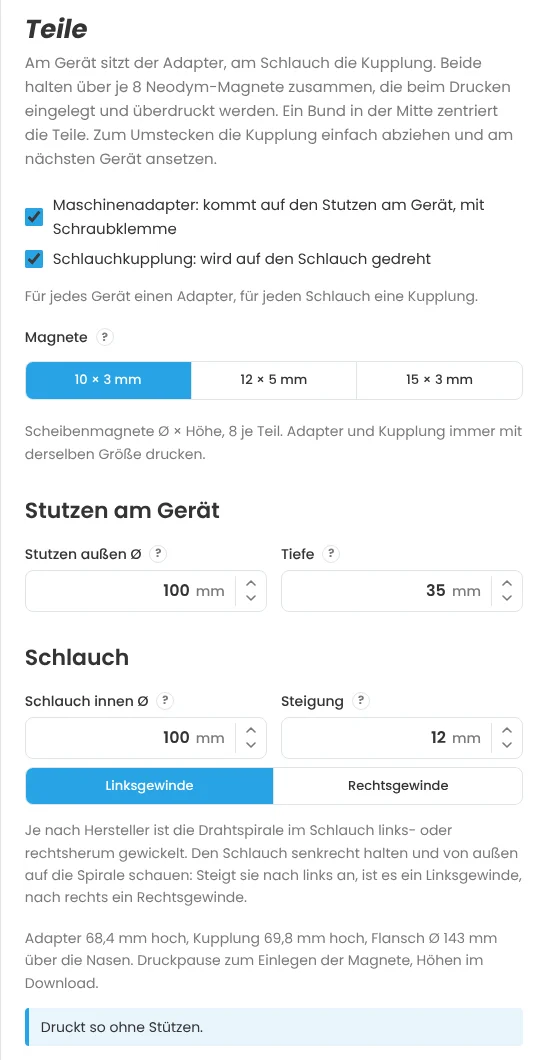
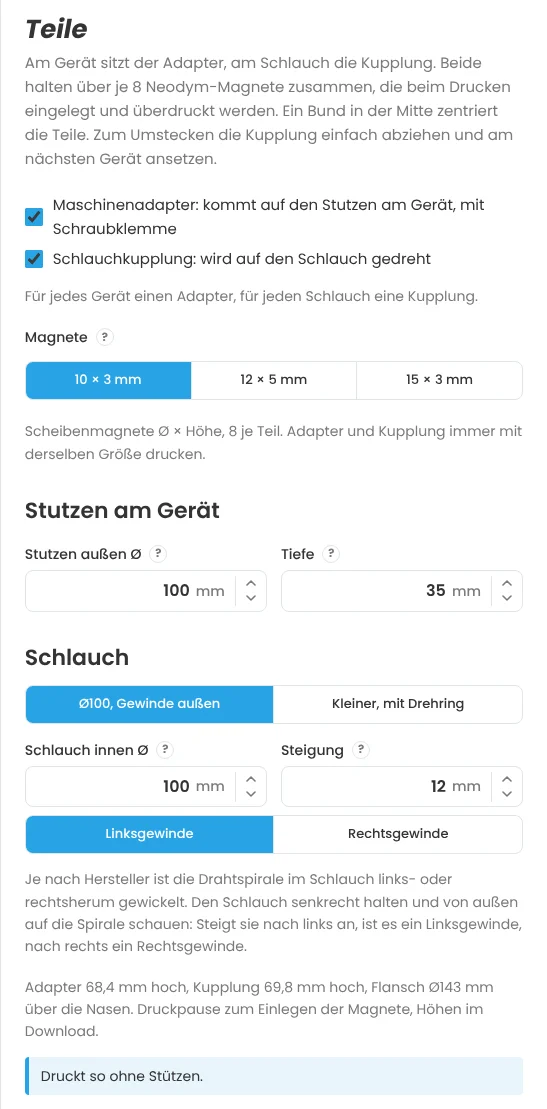
Anleitung: alle Bilder neu, Bilder zu Schlauch- und Anschlussplatte; Texte nachgezogen
- npm run docs:bilder: alle Bilder auf aktuellem Stand (Gewindetabelle, Kartennamen,
  Reihenfolge der Gruppen, Drehring-Standard), neu magnet-schlauch(-vorschau) und
  magnet-anschluss(-vorschau).
- README: Drehring-Standard 0,3 mm und druckoptimiert; Magnet-Schnellkupplung auch an
  osVAC neo über die Platte.
- Gerät ↔ Kupplung/Stecker: Einleitung und Teil-Auswahl ohne „von osVAC neo“.
- Kommentare: druckoptimierter Drehring nicht mehr „in Entwicklung“.

Claude-Session: https://claude.ai/code/session_012KSPQVGyo4GsJqVexU7eq3

diff --git a/public/anleitung.html b/public/anleitung.html
@@ -91,14 +91,14 @@ figure a.zoom{cursor:zoom-in;display:inline-block;max-width:100%}
 <p class="up"><a href="#oben">nach oben</a></p></section>
 <section><h2 id="verbindung">Schritt 1: Verbindung wählen</h2>
 <p>Im ersten Schritt wählst du, was für einen Adapter du brauchst. Die Arten sind nach ihrem Zweck sortiert.</p>
-<figure class="small"><a href="anleitung/verbindung.webp" class="zoom"><img src="anleitung/verbindung.webp" width="547" height="1530" alt="Schritt „Verbindung“ mit allen Adapterarten" loading="lazy"></a><figcaption>Schritt „Verbindung“ mit allen Adapterarten</figcaption></figure>
+<figure class="small"><a href="anleitung/verbindung.webp" class="zoom"><img src="anleitung/verbindung.webp" width="547" height="1641" alt="Schritt „Verbindung“ mit allen Adapterarten" loading="lazy"></a><figcaption>Schritt „Verbindung“ mit allen Adapterarten</figcaption></figure>
 <ul>
 <li><strong>osVAC neo untereinander:</strong> <a href="#stecker-kupplung">Stecker ↔ Kupplung</a> verbindet zwei Größen. <em>Kupplung einzeln</em> und <em>Stecker einzeln</em> sind nur der Verschluss, z. B. zum Einbau in eigene Konstruktionen.</li>
 <li><strong>An den Schlauch:</strong> <a href="#schlauch">Kupplung ↔ Schlauch und Stecker ↔ Schlauch</a> – zum Aufdrehen auf den Saugschlauch.</li>
 <li><strong>An ein Gerät:</strong> <a href="#stutzen">Kupplung → Stutzen und Stecker → Stutzen</a> – für ein Gerät mit rundem Stutzen, den du selbst ausmisst.</li>
 <li><strong>Eigener Aufbau:</strong> <a href="#freiform">Freiform</a> – ein Adapter aus Bausteinen, z. B. für eckige Auslässe, Bögen, Abzweige oder Geräte mit ungewöhnlicher Form.</li>
 <li><strong>Zubehör:</strong> <a href="#duese">Saugdüse</a>, <a href="#nebenluft">Nebenluft-Regler</a>, <a href="#schieber">Schieber einzeln</a> und <a href="#loesehilfe">Drehring-Lösehilfe</a>.</li>
-<li><strong>Magnet-Schnellkupplung Ø100:</strong> <a href="#magnet">Adapter und Kupplung für 100-mm-Schläuche</a>, die mit eingedruckten Magneten zusammenhalten, auch mit <a href="#magnet-schlauch">kleineren Schläuchen</a> oder <a href="#magnet-osvac">Anschlüssen von osVAC neo</a>. Ein eigenes System für Geräte mit 100-mm-Stutzen.</li>
+<li><strong>Magnet-Schnellkupplung Ø100:</strong> <a href="#magnet">Adapter und Kupplung für 100-mm-Schläuche</a>, die mit eingedruckten Magneten zusammenhalten, auch mit <a href="#magnet-schlauch">kleineren Schläuchen</a> oder <a href="#magnet-osvac">Kupplung/Stecker</a>. Ein eigenes System für Geräte mit 100-mm-Stutzen.</li>
 </ul>
 <p>Rechts neben jeder Art steht das Kürzel, unter dem die Datei später heißt (z. B. <em>MxxFyy</em>; xx und yy sind die Durchmesser).</p>
 <p class="up"><a href="#oben">nach oben</a></p></section>
@@ -118,7 +118,7 @@ figure a.zoom{cursor:zoom-in;display:inline-block;max-width:100%}
 <p><em>Kupplung ↔ Schlauch</em> (FxxHyy) und <em>Stecker ↔ Schlauch</em> (MxxHyy) werden auf den Saugschlauch gedreht. Der Schlauchteil sitzt in einem <strong>Drehring</strong>: Er dreht sich frei, damit sich der Schlauch beim Arbeiten nicht verdrillt.</p>
 <figure><a href="anleitung/schlauch-vorschau.webp" class="zoom"><img src="anleitung/schlauch-vorschau.webp" width="1440" height="900" alt="Kupplung ↔ Schlauch in der Vorschau" loading="lazy"></a><figcaption>Kupplung ↔ Schlauch in der Vorschau</figcaption></figure>
 <h3 id="groessen-2">Größen</h3>
-<figure class="small"><a href="anleitung/groessen-schlauch.webp" class="zoom"><img src="anleitung/groessen-schlauch.webp" width="547" height="304" alt="Größen beim Schlauchadapter" loading="lazy"></a><figcaption>Größen beim Schlauchadapter</figcaption></figure>
+<figure class="small"><a href="anleitung/groessen-schlauch.webp" class="zoom"><img src="anleitung/groessen-schlauch.webp" width="547" height="631" alt="Größen beim Schlauchadapter" loading="lazy"></a><figcaption>Größen beim Schlauchadapter</figcaption></figure>
 <ul>
 <li><strong>Kupplung (F)</strong> bzw. <strong>Stecker (M):</strong> die Seite für osVAC neo.</li>
 <li><strong>Schlauch (H):</strong> der Innendurchmesser des Schlauchs. Miss ihn innen oder schau in die Angaben deines Saugers. Viele Schläuche haben 32 oder 36 mm.</li>
@@ -126,7 +126,7 @@ figure a.zoom{cursor:zoom-in;display:inline-block;max-width:100%}
 <li><strong>Gewinde:</strong> Unter dem Schlauchfeld stehen die Durchmesser des Gewindes. Das Gewinde ist leicht konisch, am Eingang weiter als hinten. Der Schlauch passt, wenn sein <strong>Außendurchmesser</strong> höchstens so groß ist wie der <em>Gewindegrund am Eingang</em>. Schläuche mit gleichem Innendurchmesser sind außen oft verschieden dick: Ist deiner zu dick, stell einen etwas größeren Wert bei <em>Schlauch (H)</em> ein.</li>
 </ul>
 <h3 id="passung-2">Passung</h3>
-<figure class="small"><a href="anleitung/passung-schlauch.webp" class="zoom"><img src="anleitung/passung-schlauch.webp" width="547" height="653" alt="Passung beim Schlauchadapter" loading="lazy"></a><figcaption>Passung beim Schlauchadapter</figcaption></figure>
+<figure class="small"><a href="anleitung/passung-schlauch.webp" class="zoom"><img src="anleitung/passung-schlauch.webp" width="547" height="631" alt="Passung beim Schlauchadapter" loading="lazy"></a><figcaption>Passung beim Schlauchadapter</figcaption></figure>
 <ul>
 <li><strong>Spiel zwischen Stecker und Kupplung:</strong> wie bei <a href="#stecker-kupplung">Stecker ↔ Kupplung</a>.</li>
 <li><strong>Drehring:</strong> Standard ist <em>Druckoptimiert</em>, eine eigene Form: Alle Flächen, die beim Druck nach unten zeigen, sind mindestens 45° steil, und nichts hängt flach über einem Spalt. Frei in der Luft beginnt nur die schmale Spitze eines Rings, 0,65 mm über dem anderen. So dreht sich der Ring direkt nach dem Druck, auch mit PETG. Der Ring an der Kupplung bzw. am Gehäuse sitzt dabei innen, der Ring am Schlauchteil liegt außen als Hülse darüber. Der Schlauchadapter mit Kupplung wird 0,5 mm länger. Mit Ersatzteilen des Originals passt er nicht zusammen. <em>Wie Original</em> hat die Form von osVAC neo; nimm sie, wenn du Teile mit dem Original tauschen willst.</li>
@@ -169,7 +169,7 @@ figure a.zoom{cursor:zoom-in;display:inline-block;max-width:100%}
 </ul>
 <p>Adapter, Magnete und Stutzen sind bei beiden Karten gleich; jede Kupplung und jede Platte passt an jeden Adapter mit derselben Magnetgröße.</p>
 <figure><a href="anleitung/magnet-vorschau.webp" class="zoom"><img src="anleitung/magnet-vorschau.webp" width="1440" height="900" alt="Magnet-Schnellkupplung in der Vorschau" loading="lazy"></a><figcaption>Magnet-Schnellkupplung in der Vorschau</figcaption></figure>
-<figure class="small"><a href="anleitung/magnet.webp" class="zoom"><img src="anleitung/magnet.webp" width="547" height="1060" alt="Einstellungen der Magnet-Schnellkupplung" loading="lazy"></a><figcaption>Einstellungen der Magnet-Schnellkupplung</figcaption></figure>
+<figure class="small"><a href="anleitung/magnet.webp" class="zoom"><img src="anleitung/magnet.webp" width="547" height="1109" alt="Einstellungen der Magnet-Schnellkupplung" loading="lazy"></a><figcaption>Einstellungen der Magnet-Schnellkupplung</figcaption></figure>
 <ul>
 <li><strong>Teile:</strong> Maschinenadapter, Schlauchkupplung oder beides. Für jedes Gerät brauchst du einen Adapter, für jeden Schlauch eine Kupplung. Beide zusammen brauchen ein Druckbett von etwa 240 mm; ist deins kleiner, druckst du sie nacheinander.</li>
 <li><strong>Magnete:</strong> Scheibenmagnete 10 × 3, 12 × 5 oder 15 × 3 mm (Ø × Höhe). Größere halten fester. Adapter und Kupplung immer mit derselben Größe drucken.</li>
@@ -179,6 +179,8 @@ figure a.zoom{cursor:zoom-in;display:inline-block;max-width:100%}
 <p>In <em>Passung</em> stellst du das Spiel am Stutzen und am Zentrierbund ein.</p>
 <h3 id="magnet-schlauch">Kleinere Schläuche mit Drehring</h3>
 <p>Bei <em>Gerät ↔ Schlauch</em> unter <em>Schlauch</em> auf <strong>Kleiner, mit Drehring</strong> stellen. Statt der Kupplung Ø100 entsteht eine <strong>Schlauchplatte</strong>: eine flache Platte mit den Magneten, darauf ein oder zwei Becher mit dem Schlauchgewinde von osVAC neo. Jeder Becher dreht sich auf einem Drehring, so verdreht sich der Schlauch beim Arbeiten nicht.</p>
+<figure><a href="anleitung/magnet-schlauch-vorschau.webp" class="zoom"><img src="anleitung/magnet-schlauch-vorschau.webp" width="1440" height="900" alt="Schlauchplatte mit zwei Schläuchen in der Vorschau" loading="lazy"></a><figcaption>Schlauchplatte mit zwei Schläuchen in der Vorschau</figcaption></figure>
+<figure class="small"><a href="anleitung/magnet-schlauch.webp" class="zoom"><img src="anleitung/magnet-schlauch.webp" width="547" height="909" alt="Einstellungen für zwei Schläuche" loading="lazy"></a><figcaption>Einstellungen für zwei Schläuche</figcaption></figure>
 <ul>
 <li><strong>Ein Schlauch</strong> oder <strong>zwei Schläuche</strong>, je mit eigenem Innendurchmesser (15 bis 60 mm). Jeder Schlauch hat seine eigene <a href="#schlauch">Gewindetabelle</a> wie bei den Schlauchadaptern.</li>
 <li><strong>Links- oder Rechtsgewinde</strong> wählst du für jeden Schlauch einzeln. Auf jedem Becher steht vorne „osVAC neo“ und sein Durchmesser, hinten die Lizenz.</li>
@@ -188,6 +190,8 @@ figure a.zoom{cursor:zoom-in;display:inline-block;max-width:100%}
 <p>Platte, Drehring und Becher druckst du in einem Stück, mit der Kontaktfläche auf dem Druckbett. Nach dem Druck den Becher festhalten und die Platte einmal kräftig dagegen drehen, bis er frei läuft.</p>
 <h3 id="magnet-osvac">Gerät ↔ Kupplung/Stecker</h3>
 <p>Eine flache <strong>Anschlussplatte</strong> mit einem oder zwei Anschlüssen von osVAC neo. Je Anschluss wählst du <strong>Kupplung (F)</strong> oder <strong>Stecker (M)</strong> und den Durchmesser; beide Anschlüsse dürfen verschieden sein. Die Anschlüsse sitzen fest auf der Platte, ohne Drehring: Die Schläuche drehen sich in ihren eigenen Schlauchadaptern von osVAC neo.</p>
+<figure><a href="anleitung/magnet-anschluss-vorschau.webp" class="zoom"><img src="anleitung/magnet-anschluss-vorschau.webp" width="1440" height="900" alt="Anschlussplatte mit Kupplung, Stecker und Verschlusskappe in der Vorschau" loading="lazy"></a><figcaption>Anschlussplatte mit Kupplung, Stecker und Verschlusskappe in der Vorschau</figcaption></figure>
+<figure class="small"><a href="anleitung/magnet-anschluss.webp" class="zoom"><img src="anleitung/magnet-anschluss.webp" width="547" height="476" alt="Einstellungen für zwei Anschlüsse" loading="lazy"></a><figcaption>Einstellungen für zwei Anschlüsse</figcaption></figure>
 <ul>
 <li>Zwei Anschlüsse brauchen Luft zwischen den aufgesteckten Teilen, damit du sie greifen und drehen kannst: 15 mm, bei zwei Steckern 12 mm zwischen den aufgesteckten Kupplungen. Möglich sind z. B. 32 + 32, F32 + F36, 25 + 40 oder 2 × M36; zu große Kombinationen sperrt die App.</li>
 <li><strong>Verschlusskappe dazu:</strong> Für eine Kupplung gibt es einen Stopfen (ein geschlossener Stecker), für einen Stecker eine Kappe (eine geschlossene Kupplung). Sie liegt als eigenes Teil daneben und verschließt einen Anschluss, an dem gerade kein Schlauch hängt – sonst zieht er Falschluft.</li>
@@ -236,7 +240,7 @@ figure a.zoom{cursor:zoom-in;display:inline-block;max-width:100%}
 <section><h2 id="nebenluft">Nebenluft-Regler</h2>
 <p>Der Nebenluft-Regler kommt direkt auf den Schlauch. Oben steckst du die Düse oder das Werkzeug an. Mit dem oberen Drehring regelst du, wie viel Luft seitlich mit angesaugt wird: Das nimmt Sog von der Düse, z. B. für Vorhänge, Polster oder lose Teile.</p>
 <figure><a href="anleitung/nebenluft-vorschau.webp" class="zoom"><img src="anleitung/nebenluft-vorschau.webp" width="1440" height="900" alt="Nebenluft-Regler in der Vorschau" loading="lazy"></a><figcaption>Nebenluft-Regler in der Vorschau</figcaption></figure>
-<figure class="small"><a href="anleitung/nebenluft.webp" class="zoom"><img src="anleitung/nebenluft.webp" width="547" height="751" alt="Einstellungen des Nebenluft-Reglers" loading="lazy"></a><figcaption>Einstellungen des Nebenluft-Reglers</figcaption></figure>
+<figure class="small"><a href="anleitung/nebenluft.webp" class="zoom"><img src="anleitung/nebenluft.webp" width="547" height="1078" alt="Einstellungen des Nebenluft-Reglers" loading="lazy"></a><figcaption>Einstellungen des Nebenluft-Reglers</figcaption></figure>
 <ul>
 <li><strong>Oben:</strong> Kupplung (F, Standard) oder Stecker (M) und die Größe.</li>
 <li><strong>Unten: Schlauch (H):</strong> wie beim <a href="#schlauch">Schlauchadapter</a>. Der Schlauch wird eingedreht und kann sich mit dem unteren Drehring drehen.</li>

diff --git a/src/components/steps/StepMagnet.svelte b/src/components/steps/StepMagnet.svelte
@@ -22,7 +22,7 @@
 <h2>Teile</h2>
 <p class="lead">
   {#if osvac}
-    Am Gerät sitzt der Adapter, darauf eine Platte mit einem oder zwei Anschlüssen von osVAC neo. Beide halten über je {MAG.n} Neodym-Magnete zusammen, die beim Drucken eingelegt und überdruckt werden. Ein Bund in der Mitte zentriert die Teile.
+    Am Gerät sitzt der Adapter, darauf eine Platte mit einem oder zwei Anschlüssen (Kupplung oder Stecker). Beide halten über je {MAG.n} Neodym-Magnete zusammen, die beim Drucken eingelegt und überdruckt werden. Ein Bund in der Mitte zentriert die Teile.
   {:else}
     Am Gerät sitzt der Adapter, am Schlauch die Kupplung. Beide halten über je {MAG.n} Neodym-Magnete zusammen, die beim Drucken eingelegt und überdruckt werden. Ein Bund in der Mitte zentriert die Teile. Zum Umstecken die Kupplung einfach abziehen und am nächsten Gerät ansetzen.
   {/if}
@@ -31,7 +31,7 @@
 <div class="checks helper-parts">
   <label><input type="checkbox" checked={g.adapter} disabled={g.adapter && !g.coupling} onchange={() => app.toggleMagnetPart('adapter')} /> Maschinenadapter: kommt auf den Stutzen am Gerät, mit Schraubklemme</label>
   <label><input type="checkbox" checked={g.coupling} disabled={g.coupling && !g.adapter} onchange={() => app.toggleMagnetPart('coupling')} />
-    {#if osvac}Anschlussplatte: mit Kupplung oder Stecker von osVAC neo{:else if g.hoseMode === 'small'}Schlauchplatte: ein oder zwei Schläuche mit Drehring{:else}Schlauchkupplung: wird auf den Schlauch gedreht{/if}</label>
+    {#if osvac}Anschlussplatte: mit Kupplung oder Stecker{:else if g.hoseMode === 'small'}Schlauchplatte: ein oder zwei Schläuche mit Drehring{:else}Schlauchkupplung: wird auf den Schlauch gedreht{/if}</label>
 </div>
 <p class="hint">{osvac ? 'Für jedes Gerät einen Adapter; die Anschlussplatte passt auf jeden Adapter mit derselben Magnetgröße.' : 'Für jedes Gerät einen Adapter, für jeden Schlauch eine Kupplung.'}</p>
 

diff --git a/scripts/anleitung-bilder.ts b/scripts/anleitung-bilder.ts
@@ -258,6 +258,34 @@ const scenes: Scene[] = [
     },
   },
   {
+    name: 'magnet-schlauch',
+    run: async (pg) => {
+      await kind(pg, /Gerät ↔ Schlauch/);
+      await step(pg, 'Teile');
+      await pg.getByRole('radio', { name: 'Kleiner, mit Drehring' }).click();
+      await pg.getByRole('radio', { name: 'Zwei Schläuche' }).click();
+      await ready(pg);
+      await shotPanel(pg, 'magnet-schlauch', pg.locator('h3.sub', { hasText: 'Schlauch' }), pg.locator('.port').last());
+      await shotApp(pg, 'magnet-schlauch-vorschau');
+      await pg.getByRole('radio', { name: 'Ein Schlauch' }).click();
+      await pg.getByRole('radio', { name: 'Ø100, Gewinde außen' }).click();
+    },
+  },
+  {
+    name: 'magnet-anschluss',
+    run: async (pg) => {
+      await kind(pg, /Gerät ↔ Kupplung\/Stecker/);
+      await step(pg, 'Teile');
+      await pg.getByRole('radio', { name: 'Zwei Anschlüsse' }).click();
+      await pg.getByRole('radio', { name: 'Stecker (M)' }).nth(1).click();
+      await pg.locator('label.cap input').first().check();
+      await ready(pg);
+      await shotPanel(pg, 'magnet-anschluss', pg.locator('h3.sub', { hasText: 'Anschlüsse' }), pg.locator('.port').last());
+      await shotApp(pg, 'magnet-anschluss-vorschau');
+      await pg.getByRole('button', { name: /Teile auf Standard zurücksetzen/ }).click();
+    },
+  },
+  {
     name: 'freiform',
     run: async (pg) => {
       await kind(pg, 'Freiform');

diff --git a/src/lib/osvac/hose.ts b/src/lib/osvac/hose.ts
@@ -292,7 +292,7 @@ export function swivelInner(p: OsvacParams, housed: boolean): Shape3D {
   return revolveProfile(...poly(swivelInnerPts(p.hoseDiameterInner / 2, p.generalMaterialWidth, housed, g)));
 }
 
-// ---------------------------------------------------------------- druckoptimierter Drehring (in Entwicklung)
+// ---------------------------------------------------------------- druckoptimierter Drehring (Standard seit 0.6)
 
 /**
  * Druckoptimierter Drehring (eigene Konstruktion, nicht im Original). Ziel: dreht sich direkt nach dem Druck.

diff --git a/src/lib/osvac/assemblies.ts b/src/lib/osvac/assemblies.ts
@@ -63,7 +63,7 @@ export interface BuildOptions {
   magnet?: MagnetSpec;
   /** Magnet-Schnellkupplung: osVAC-Anschlüsse statt Schlauch („Gerät ↔ Kupplung/Stecker“) */
   magnetOsvac?: boolean;
-  /** Drehring am Schlauch: 'print' = druckoptimiert (in Entwicklung), sonst wie im Original */
+  /** Drehring am Schlauch: 'print' = druckoptimiert (Standard in der App), sonst wie im Original */
   swivel?: 'print';
   /** Schlauchgewinde: 'right' = Rechtsgewinde, sonst links wie im Original */
   hoseHand?: 'right';

diff --git a/src/lib/osvac/magnet.ts b/src/lib/osvac/magnet.ts
@@ -1,5 +1,5 @@
 /**
- * Magnet-Schnellkupplung Ø100 (eigenes System, nicht osVAC neo), nach dem Vorbild der magnetischen Schnellkupplung von
+ * Magnet-Schnellkupplung Ø100 (eigenes System; über die Platte mit Kupplung/Stecker auch an osVAC neo), nach dem Vorbild der magnetischen Schnellkupplung von
  * kleinholz.me: Maschinenadapter und Schlauchkupplung halten über Neodym-Scheiben zusammen, die beim Druck eingelegt und
  * überdruckt werden (geschlossene Taschen, Druckpause).
  *

diff --git a/README.md b/README.md
@@ -33,7 +33,7 @@ Es werden keine neuen Adapter erfunden. Jedes Teil ist ein parametrisiertes Orig
 | Drehring-Lösehilfe | Halter für Kupplungen oder für Stecker | SlipRingHelper (Ludo Kerz), siehe unten |
 | Freiform | Anschluss A (Female oder Male), Übergang, Bausteine, Ende B (Gerät oder Female/Male) | eigene Erweiterung, siehe unten |
 
-Einstellbar: Durchmesser von Stecker, Kupplung und Schlauch, Spaltmaß Stecker/Kupplung, Spaltmaß Drehring (ab 0,2 mm, Standard 0,35 mm; das Original hat 0,3 mm; an der Kupplung höchstens 0,5 mm bei 7 mm bzw. 0,35 mm bei 9 mm Materialstärke, im Gehäuse bis 0,8 mm), Materialstärke (7 oder 9 mm), Druckhilfe (die Beschriftung ist immer dabei) sowie beim Stutzen Befestigungsart, Durchmesser vorne und in der Tiefe, Steckweg, Wandstärke, Zugabe, Übergangslänge (TransitionConeLength, Standard 8 mm), Schraubenlöcher, Klemmrippen (aufgesteckt innen, eingesteckt außen; eingesteckt möglichst neben der Beschriftung) und beim Aufstecken Schlitze für eine Schlauchschelle (2 Stück bei 0° und 180°, zwischen Löchern und Schrift; 80 % der Rohrlänge, Breite Umfang/40).
+Einstellbar: Durchmesser von Stecker, Kupplung und Schlauch, Spaltmaß Stecker/Kupplung, Drehring druckoptimiert (Standard) oder wie im Original, Spaltmaß Drehring (ab 0,2 mm, Standard 0,3 mm wie im Original; an der Kupplung höchstens 0,5 mm bei 7 mm bzw. 0,35 mm bei 9 mm Materialstärke, im Gehäuse bis 0,8 mm), Materialstärke (7 oder 9 mm), Druckhilfe (die Beschriftung ist immer dabei) sowie beim Stutzen Befestigungsart, Durchmesser vorne und in der Tiefe, Steckweg, Wandstärke, Zugabe, Übergangslänge (TransitionConeLength, Standard 8 mm), Schraubenlöcher, Klemmrippen (aufgesteckt innen, eingesteckt außen; eingesteckt möglichst neben der Beschriftung) und beim Aufstecken Schlitze für eine Schlauchschelle (2 Stück bei 0° und 180°, zwischen Löchern und Schrift; 80 % der Rohrlänge, Breite Umfang/40).
 
 ### Schieber einzeln
 
@@ -64,7 +64,7 @@ Gerade, Bogen, Anschlagring und Muffe/Zapfen ohne Konus sind exakte Extrusionen 
 
 **Eigene Kontur** (`src/lib/osvac/contour.ts`, `src/lib/contour-import.ts`, `ContourPanel.svelte`, `ContourDraw.svelte`): siebte Form „Eigene“ in jeder Formauswahl der Freiform. Wege: SVG/DXF laden (SVG im Browser abgetastet mit Transformationen und Einheiten aus width/viewBox; DXF: LWPOLYLINE/POLYLINE mit Bögen, LINE/ARC verkettet, CIRCLE, ELLIPSE, SPLINE, `$INSUNITS`; mehrere Umrisse → Auswahl), am Foto nachzeichnen (Maßstab aus zwei Punkten auf einem Lineal) oder auf Millimeterraster zeichnen (Punkte ziehen, einfügen, löschen, Eckradius je Punkt). Aufbereitung: spitze Ecken R 0,5, Rundungen dicht abgetastet, Mitte des Umrisses im Ursprung. Versatz für Zugabe und Wand mit Clipper (runde Ecken). Draht: lange Kanten als Linien, Ketten kurzer Kanten als BSpline, an Knicken getrennt. Die Punkte gelten mit Blick auf den Stutzen (von außen); in der Geometrie werden sie gespiegelt, weil die Querschnittsebene in Richtung der Kette gesehen wird. Prüfung: geschlossen, ohne Überschneidung, 6–250 mm; eingesteckt Hinweis bei Stellen, die schmaler als Wand und Luft sind (narrowLoss). SVG: `<use>`/`<symbol>` werden aufgelöst, Vorlagen in `<defs>` nicht mitgezählt. Editor: Rückgängig, Zoom mit zwei Fingern und Knöpfen, Rückfrage vor dem Verwerfen. Testdateien in `scripts/fixtures`. Clipper, der SVG/DXF-Leser und das Zeichenfenster werden nachgeladen (eigene Dateien): Wer mit Konturen rechnet, wartet auf `clipperReady` (CAD-Worker, Skripte); die Planung im Browser rechnet nach dem Laden neu (`app.clipperOk`).
 
-**Magnet-Schnellkupplung Ø100** (`src/lib/osvac/magnet.ts`, `partsMagnet` in `assemblies.ts`): Testdruck steht noch aus; `test:ui` prüft den Ablauf. Eigenes System, nicht kompatibel mit osVAC neo; Idee wie die magnetische Schnellkupplung von kleinholz.me, eigene Konstruktion. Maschinenadapter: Muffe über den Stutzen (Ø90–110, Spiel je Seite 0,3), innen 45°-Anschlag auf die Bohrung Ø97, am offenen Ende Schraubklemme (Schlitz 4 mm mit Entlastungsloch Ø8, zwei Ohren mit 45°-Stützen, Bohrung Ø5,5, Kopfsenkung Ø9,2 und Sechskant-Tasche SW 8,3, beide 5,3 tief: Zylinderschraube M5 × 25 ISO 4762, selbstsichernde Mutter M5 DIN 985), oben Flansch und Zentrierbund Ø106 × 6. Schlauchkupplung: Rohr mit Außengewinde (Grund = Schlauch innen Ø90–110, Tiefe 3, Flanken 45°, Steigung 8–20, links oder rechts, eigener Körper „Gewinde“), oben Flansch mit Tasche für den Bund (Spiel je Seite 0,3). Flansch: Scheibe R 59 und 8 Nasen auf R 63 (Nasenradius = Tasche/2 + 3,5), Unterseite durchgehend 45° von der Wand bis außen an die Nasen, darum druckt alles ohne Stützen. Magnete 10 × 3, 12 × 5 oder 15 × 3 in geschlossenen Taschen (+0,3 im Ø, +0,2 hoch) 0,6 mm unter der Kontaktfläche; Kontaktfläche und Taschen im 0,2-mm-Raster, die Höhen der Druckpause stehen in den Druckhinweisen. Beide Teile werden mit der Kontaktfläche nach oben gedruckt und liegen diagonal nebeneinander, um 22,5° gegeneinander verdreht (passen auf 256 mm). `npm run test:islands -- magnet` prüft drei Varianten; `npx tsx scripts/magnet-try.ts [Ordner] [JSON]` baut die Körper einzeln als STL. Platten (Karte *Gerät ↔ Schlauch* mit „Kleiner, mit Drehring“ und Karte *Gerät ↔ Kupplung/Stecker*, `magnetPlate`, `magnetPortLayout`, `magnetPlateInfo`): flach, Kontaktfläche unten (z = 0), 8,4 mm stark mit Ringnut für den Bund (innen Ø97 − 2 × Spiel, Decke = Brücke 4,8 mm), innerhalb der Nut 4 mm, unter jedem Anschluss ein Sockel in voller Stärke mit Loch; Taschen 0,6 über der Kontaktfläche (Druckpause früh). osVAC-Anschlüsse fest (Female + Dichtnut-Füllung bzw. Male gedreht, je mit Übergang wie bei den Stutzen-Adaptern); Schläuche: unterer Drehring + Kopf des Schlauchteils fest, oberer Drehring + umgedrehter Becher (Schlauchteil ohne Knickschutz, Schulter aufgefüllt, Gewinde ohne Auslauf, je Schlauch links oder rechts; Rändelung und Textfelder aufrecht gebaut, `hoseCupGrip`) drehen. Außenradius je Anschluss mit Gegenstück: F/M d/2 + W + 1,5, Schlauch d/2 + W + 0,5; freier Abstand 15 mm (Bajonett), 12 mm bei zwei Steckern (gemessen an den aufgesteckten Kupplungen) bzw. 8 mm (Schläuche), beide innerhalb R59. Verschlusskappen (Stopfen = Male, Kappe = Female, je mit Boden) als eigene Objekte in den freien Ecken des Druckbetts. `npm run test:islands -- magnet` prüft sechs weitere Fälle.
+**Magnet-Schnellkupplung Ø100** (`src/lib/osvac/magnet.ts`, `partsMagnet` in `assemblies.ts`): Testdruck steht noch aus; `test:ui` prüft den Ablauf. Eigenes System (an osVAC neo nur über die Platte mit Kupplung/Stecker); Idee wie die magnetische Schnellkupplung von kleinholz.me, eigene Konstruktion. Maschinenadapter: Muffe über den Stutzen (Ø90–110, Spiel je Seite 0,3), innen 45°-Anschlag auf die Bohrung Ø97, am offenen Ende Schraubklemme (Schlitz 4 mm mit Entlastungsloch Ø8, zwei Ohren mit 45°-Stützen, Bohrung Ø5,5, Kopfsenkung Ø9,2 und Sechskant-Tasche SW 8,3, beide 5,3 tief: Zylinderschraube M5 × 25 ISO 4762, selbstsichernde Mutter M5 DIN 985), oben Flansch und Zentrierbund Ø106 × 6. Schlauchkupplung: Rohr mit Außengewinde (Grund = Schlauch innen Ø90–110, Tiefe 3, Flanken 45°, Steigung 8–20, links oder rechts, eigener Körper „Gewinde“), oben Flansch mit Tasche für den Bund (Spiel je Seite 0,3). Flansch: Scheibe R 59 und 8 Nasen auf R 63 (Nasenradius = Tasche/2 + 3,5), Unterseite durchgehend 45° von der Wand bis außen an die Nasen, darum druckt alles ohne Stützen. Magnete 10 × 3, 12 × 5 oder 15 × 3 in geschlossenen Taschen (+0,3 im Ø, +0,2 hoch) 0,6 mm unter der Kontaktfläche; Kontaktfläche und Taschen im 0,2-mm-Raster, die Höhen der Druckpause stehen in den Druckhinweisen. Beide Teile werden mit der Kontaktfläche nach oben gedruckt und liegen diagonal nebeneinander, um 22,5° gegeneinander verdreht (passen auf 256 mm). `npm run test:islands -- magnet` prüft drei Varianten; `npx tsx scripts/magnet-try.ts [Ordner] [JSON]` baut die Körper einzeln als STL. Platten (Karte *Gerät ↔ Schlauch* mit „Kleiner, mit Drehring“ und Karte *Gerät ↔ Kupplung/Stecker*, `magnetPlate`, `magnetPortLayout`, `magnetPlateInfo`): flach, Kontaktfläche unten (z = 0), 8,4 mm stark mit Ringnut für den Bund (innen Ø97 − 2 × Spiel, Decke = Brücke 4,8 mm), innerhalb der Nut 4 mm, unter jedem Anschluss ein Sockel in voller Stärke mit Loch; Taschen 0,6 über der Kontaktfläche (Druckpause früh). osVAC-Anschlüsse fest (Female + Dichtnut-Füllung bzw. Male gedreht, je mit Übergang wie bei den Stutzen-Adaptern); Schläuche: unterer Drehring + Kopf des Schlauchteils fest, oberer Drehring + umgedrehter Becher (Schlauchteil ohne Knickschutz, Schulter aufgefüllt, Gewinde ohne Auslauf, je Schlauch links oder rechts; Rändelung und Textfelder aufrecht gebaut, `hoseCupGrip`) drehen. Außenradius je Anschluss mit Gegenstück: F/M d/2 + W + 1,5, Schlauch d/2 + W + 0,5; freier Abstand 15 mm (Bajonett), 12 mm bei zwei Steckern (gemessen an den aufgesteckten Kupplungen) bzw. 8 mm (Schläuche), beide innerhalb R59. Verschlusskappen (Stopfen = Male, Kappe = Female, je mit Boden) als eigene Objekte in den freien Ecken des Druckbetts. `npm run test:islands -- magnet` prüft sechs weitere Fälle.
 
 **Druckoptimierter Drehring** (`swivelPrintProfile`, `swivelPrintTop/Bottom` in `hose.ts`, `swivelParts` in `assemblies.ts`, BuildOptions `swivel: 'print'`): in „Passung“ wählbar (*Wie Original* / *Druckoptimiert*, Standard wie im Original), Testdruck steht noch aus. Standard des Drehring-Spiels 0,3 mm wie im Original. Eigene Form statt der Haken des Originals: Der obere Ring (an Kupplung, Gehäuse bzw. Nebenluft-Rohr) sitzt innen und hat unten einen Flansch, der untere (am Schlauchteil) liegt außen als 1,6-mm-Hülse mit einer Lippe, die 1,4 mm über den Flansch greift. Alle beim Druck nach unten zeigenden Flächen sind 45° (Lippen-Unterseite 50°) oder senkrecht; senkrechte Dichtflächen (Flanschspitze 2,2 mm, Lippe 0,8 mm) mit dem eingestellten Spiel, Schrägen mit Spiel + 0,15, mindestens 0,45. Frei beginnt nur die Flanschspitze, 0,65 mm über dem unteren Ring. FxxHyy/Nebenluft-Regler: Schlauchteil 6,5 statt 6,0 mm unter dem Ring (0,5 mm länger); MxxHyy: Gehäuse-Unterkante 45° (Ecke an der Bohrung 0,36 höher), Schulter des Schlauchteils folgt. `npm run test:swivel` prüft die Profile für 7/9 mm und Spiel 0,2–0,5 (keine Überlappung, Mindestspiel, kein Überhang außer dem Anfang) und rechnet das Original zum Vergleich mit; `test:islands` hat drei Fälle `drehring-druck`/`nebenluft-druck`.
 

diff --git a/docs/anleitung.md b/docs/anleitung.md
@@ -51,7 +51,7 @@ Im ersten Schritt wählst du, was für einen Adapter du brauchst. Die Arten sind
 - **An ein Gerät:** [Kupplung → Stutzen und Stecker → Stutzen](#stutzen) – für ein Gerät mit rundem Stutzen, den du selbst ausmisst.
 - **Eigener Aufbau:** [Freiform](#freiform) – ein Adapter aus Bausteinen, z. B. für eckige Auslässe, Bögen, Abzweige oder Geräte mit ungewöhnlicher Form.
 - **Zubehör:** [Saugdüse](#duese), [Nebenluft-Regler](#nebenluft), [Schieber einzeln](#schieber) und [Drehring-Lösehilfe](#loesehilfe).
-- **Magnet-Schnellkupplung Ø100:** [Adapter und Kupplung für 100-mm-Schläuche](#magnet), die mit eingedruckten Magneten zusammenhalten, auch mit [kleineren Schläuchen](#magnet-schlauch) oder [Anschlüssen von osVAC neo](#magnet-osvac). Ein eigenes System für Geräte mit 100-mm-Stutzen.
+- **Magnet-Schnellkupplung Ø100:** [Adapter und Kupplung für 100-mm-Schläuche](#magnet), die mit eingedruckten Magneten zusammenhalten, auch mit [kleineren Schläuchen](#magnet-schlauch) oder [Kupplung/Stecker](#magnet-osvac). Ein eigenes System für Geräte mit 100-mm-Stutzen.
 
 Rechts neben jeder Art steht das Kürzel, unter dem die Datei später heißt (z. B. *MxxFyy*; xx und yy sind die Durchmesser).
 
@@ -167,6 +167,10 @@ In *Passung* stellst du das Spiel am Stutzen und am Zentrierbund ein.
 
 Bei *Gerät ↔ Schlauch* unter *Schlauch* auf **Kleiner, mit Drehring** stellen. Statt der Kupplung Ø100 entsteht eine **Schlauchplatte**: eine flache Platte mit den Magneten, darauf ein oder zwei Becher mit dem Schlauchgewinde von osVAC neo. Jeder Becher dreht sich auf einem Drehring, so verdreht sich der Schlauch beim Arbeiten nicht.
 
+![Schlauchplatte mit zwei Schläuchen in der Vorschau](anleitung/magnet-schlauch-vorschau.webp)
+
+![Einstellungen für zwei Schläuche](anleitung/magnet-schlauch.webp){klein}
+
 - **Ein Schlauch** oder **zwei Schläuche**, je mit eigenem Innendurchmesser (15 bis 60 mm). Jeder Schlauch hat seine eigene [Gewindetabelle](#schlauch) wie bei den Schlauchadaptern.
 - **Links- oder Rechtsgewinde** wählst du für jeden Schlauch einzeln. Auf jedem Becher steht vorne „osVAC neo“ und sein Durchmesser, hinten die Lizenz.
 - Zwei Schläuche gehen nur, wenn zwischen den Bechern mindestens 8 mm Luft bleibt und beide auf die Platte passen (z. B. 32 + 32, 32 + 36, 25 + 40). Sonst meldet die App einen Fehler und du wählst einen kleineren Durchmesser.
@@ -177,6 +181,10 @@ Platte, Drehring und Becher druckst du in einem Stück, mit der Kontaktfläche a
 ### Gerät ↔ Kupplung/Stecker {#magnet-osvac}
 
 Eine flache **Anschlussplatte** mit einem oder zwei Anschlüssen von osVAC neo. Je Anschluss wählst du **Kupplung (F)** oder **Stecker (M)** und den Durchmesser; beide Anschlüsse dürfen verschieden sein. Die Anschlüsse sitzen fest auf der Platte, ohne Drehring: Die Schläuche drehen sich in ihren eigenen Schlauchadaptern von osVAC neo.
+
+![Anschlussplatte mit Kupplung, Stecker und Verschlusskappe in der Vorschau](anleitung/magnet-anschluss-vorschau.webp)
+
+![Einstellungen für zwei Anschlüsse](anleitung/magnet-anschluss.webp){klein}
 
 - Zwei Anschlüsse brauchen Luft zwischen den aufgesteckten Teilen, damit du sie greifen und drehen kannst: 15 mm, bei zwei Steckern 12 mm zwischen den aufgesteckten Kupplungen. Möglich sind z. B. 32 + 32, F32 + F36, 25 + 40 oder 2 × M36; zu große Kombinationen sperrt die App.
 - **Verschlusskappe dazu:** Für eine Kupplung gibt es einen Stopfen (ein geschlossener Stecker), für einen Stecker eine Kappe (eine geschlossene Kupplung). Sie liegt als eigenes Teil daneben und verschließt einen Anschluss, an dem gerade kein Schlauch hängt – sonst zieht er Falschluft.
